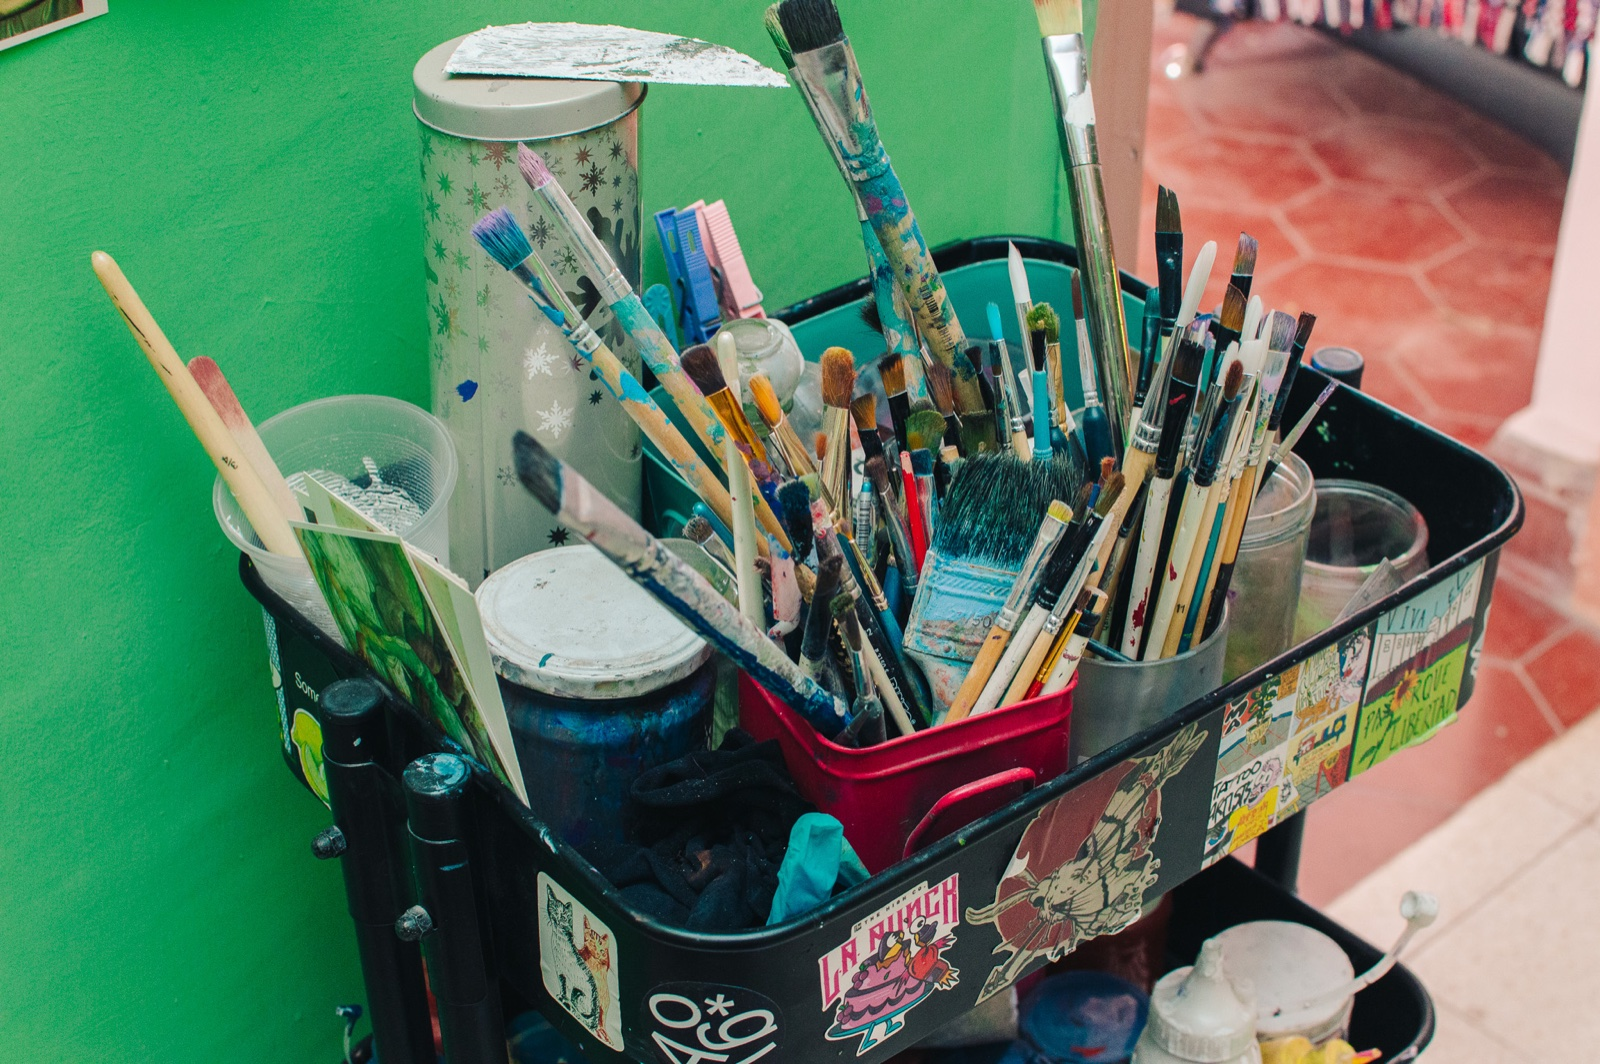
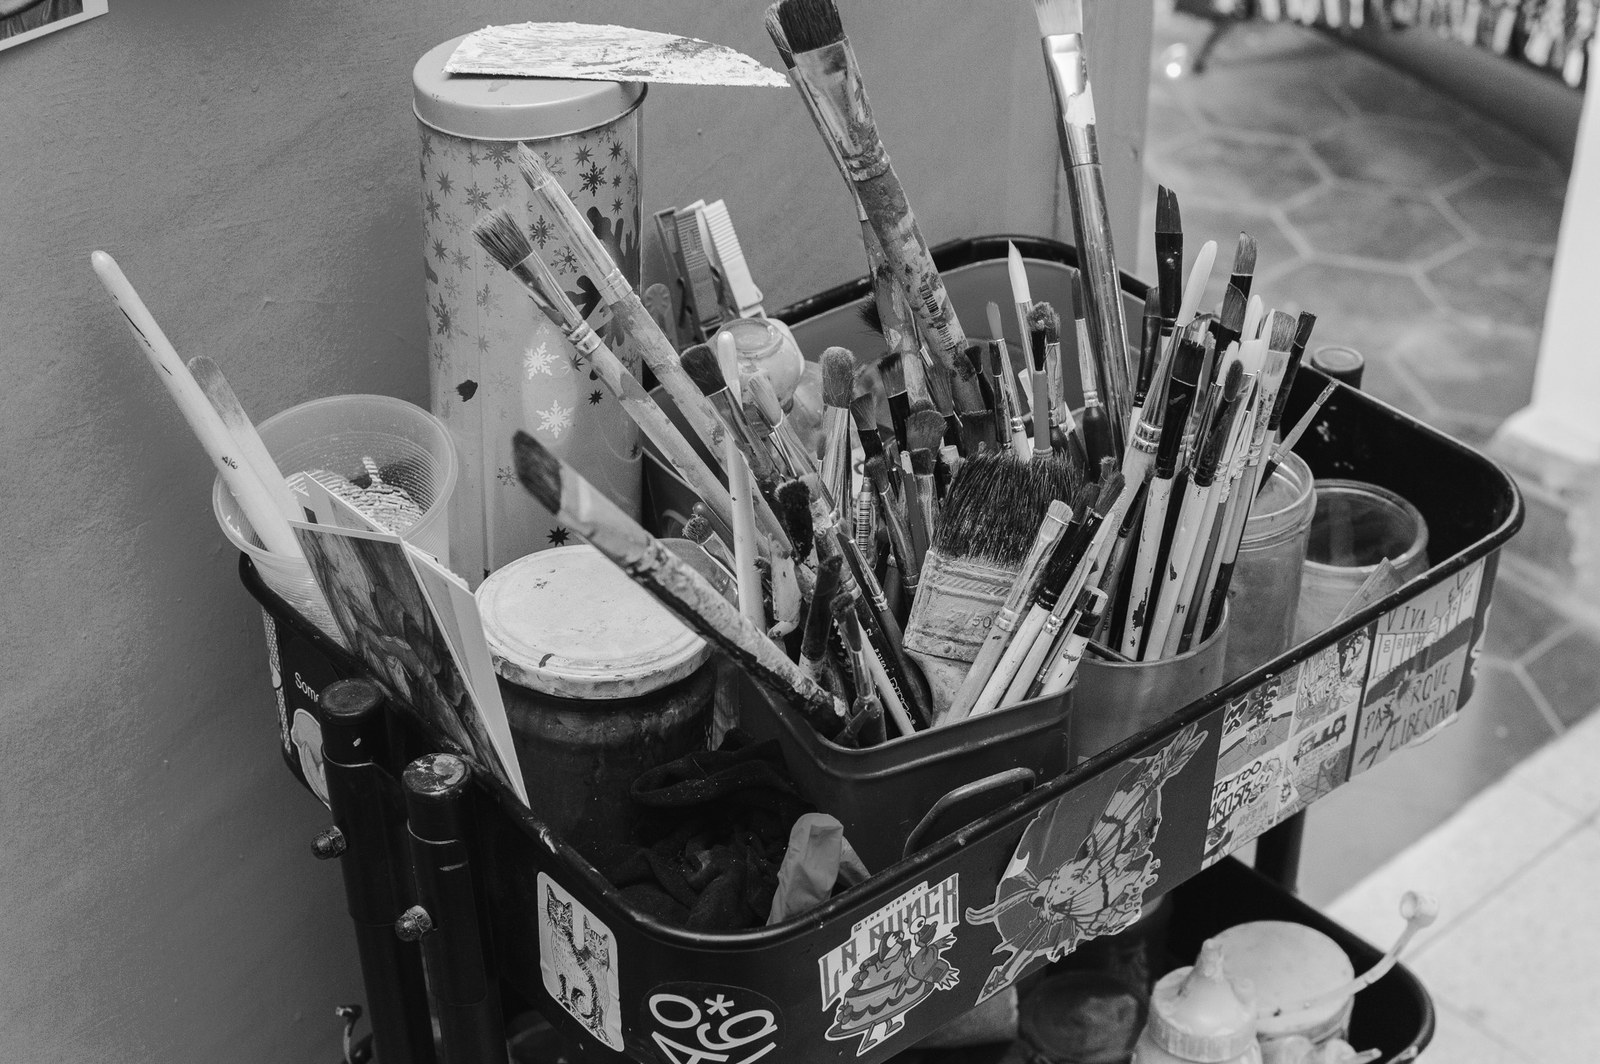
Home: foto Residencias en B&N + alt actualizado

diff --git a/index.html b/index.html
@@ -342,7 +342,7 @@
 
     <a class="space" href="/cowork.html#residencias" data-reveal data-cursor="Por aplicación">
       <div class="space__media">
-        <img src="assets/images/spaces/residencias.jpg" alt="Set de iluminación profesional listo para producción artística en residencia" loading="lazy" />
+        <img src="assets/images/spaces/residencias.jpg" alt="Carrito con pinceles y materiales de pintura listos para una residencia artística" loading="lazy" />
       </div>
       <div class="space__body">
         <span class="space__n">04</span>